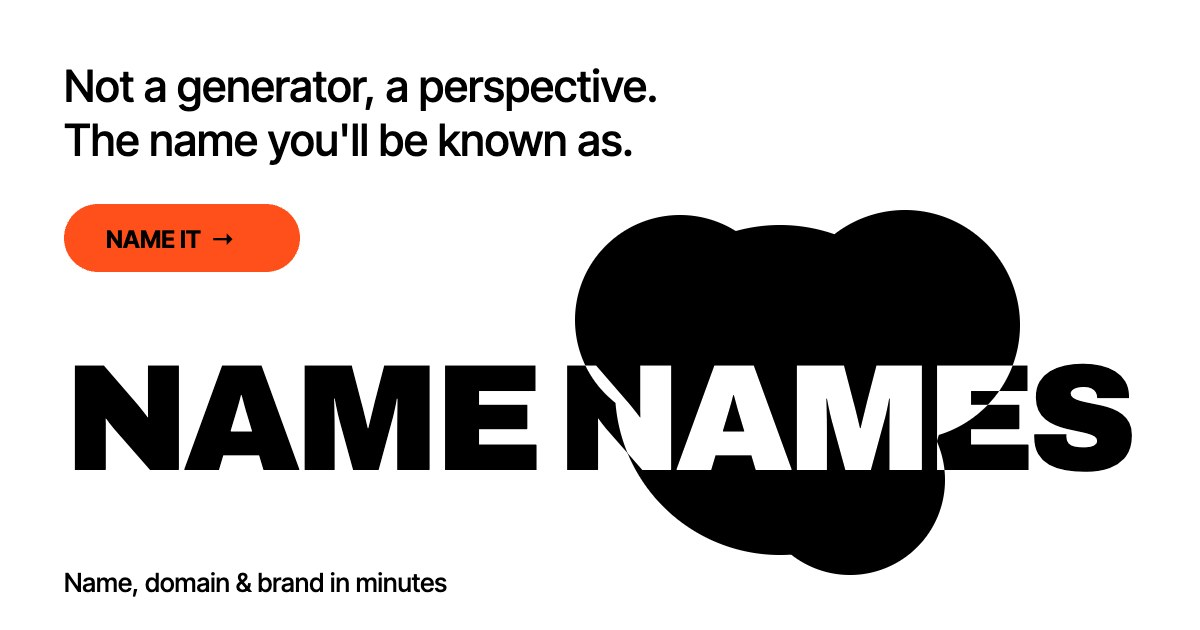
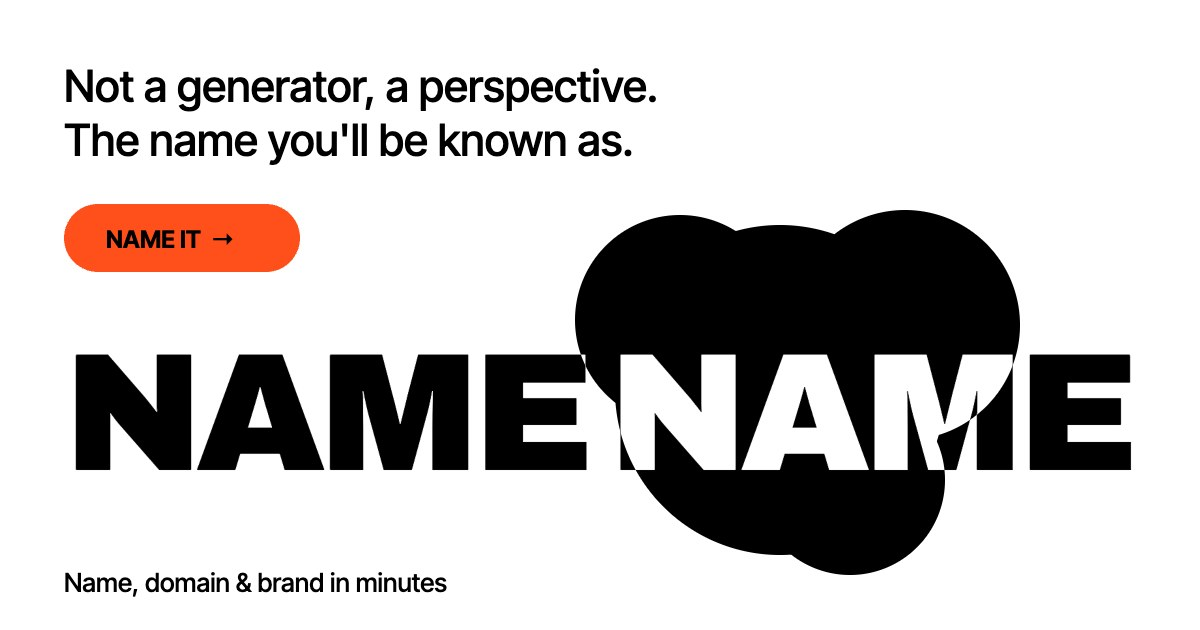
Rebrand: Name Name (namename.ai is ours)
Wordmark, titles, OG card and tags, book credit and share copy all read Name
Name; phones size the two-line mark to NAME.

Changed region(s): [[0.0617, 0.5429, 0.9558, 0.754]]

diff --git a/src/wrapped/WrappedApp.tsx b/src/wrapped/WrappedApp.tsx
@@ -1,4 +1,4 @@
-// Name Names — the "Wrapped" flow. One black stage:
+// Name Name — the "Wrapped" flow. One black stage:
 // 00 landing → 01 the ask → 02 brief wrapped → 03 the words → 04 the names
 // (gated when signed out) → 05 the reveal → then the own-it hub:
 // 06 domain → 06b/c logo → 07 brand book → 08 socials → 09 all set.
@@ -546,7 +546,7 @@ export function WrappedApp({ test, resume, go }: { test: boolean; resume?: strin
     pushUrl("ask");
   }
 
-  // The Name Names landing submits the brief into the flow (02) — after the
+  // The Name Name landing submits the brief into the flow (02) — after the
   // one-tap sign-up (00·s) that keeps the brief, when signed out.
   function startFromLanding() {
     if (!user && !test) { setBriefGate(true); return; }
@@ -736,7 +736,7 @@ export function WrappedApp({ test, resume, go }: { test: boolean; resume?: strin
   function share() {
     const nm = picked?.name || "My new name";
     const base = "https://dimitri-frb.github.io/thenamingstudio/";
-    const text = `${nm}, found with Name Names`;
+    const text = `${nm}, found with Name Name`;
     let url = base;
     if (picked && !test) {
       // A public page for invitees: /s/<id> (best effort; falls back to the site).
@@ -846,7 +846,7 @@ export function WrappedApp({ test, resume, go }: { test: boolean; resume?: strin
       {/* shared header: logo left, chapter label centred, round ‹ › right */}
       {step !== "land" && <div className="wr-top">
         <button className="wr-brand" onClick={() => restart()}>
-          <span className="bt">NAME NAMES</span>
+          <span className="bt">NAME NAME</span>
         </button>
         {chapter && <span className="wr-chapter">{chapter.label}</span>}
         <span style={{ display: "inline-flex", alignItems: "center", gap: 8 }}>
@@ -1796,7 +1796,7 @@ function BriefGateModal({ brief, onClose, onUser }: { brief: string; onClose: ()
   return (
     <div className="wr-sumodal gate" onClick={onClose}>
       <div className="panel" onClick={(e) => e.stopPropagation()}>
-        <span className="bt" style={{ fontFamily: "'Archivo', var(--sans)", fontWeight: 900, letterSpacing: "-0.045em", fontSize: 16, display: "block", marginBottom: 16 }}>NAME NAMES</span>
+        <span className="bt" style={{ fontFamily: "'Archivo', var(--sans)", fontWeight: 900, letterSpacing: "-0.045em", fontSize: 16, display: "block", marginBottom: 16 }}>NAME NAME</span>
         <h3>Save your brief.<br />Then we name it.</h3>
         {brief && (
           <p className="briefrow"><em>Brief</em><span>{brief}</span></p>
@@ -1963,7 +1963,7 @@ function WordsLoader({ concept }: { concept: string }) {
   );
 }
 
-/* ── The Name Names landing (handoff 4b "The Wordmark"): white page, giant
+/* ── The Name Name landing (handoff 4b "The Wordmark"): white page, giant
    edge-to-edge wordmark, ink blobs in difference blend, brief input up top ── */
 function LandingKA({ sentence, setSentence, onSubmit, onHow, onLogin, loggedIn }: {
   sentence: string; setSentence: (s: string) => void;
@@ -1979,12 +1979,12 @@ function LandingKA({ sentence, setSentence, onSubmit, onHow, onLogin, loggedIn }
       const wm = wmRef.current, f = frameRef.current;
       if (!wm || !f) return;
       const mobile = f.clientWidth <= 760;
-      // Phones break the wordmark onto two lines and size it to "NAMES".
+      // Phones break the wordmark onto two lines and size it to "NAME".
       wm.style.whiteSpace = "nowrap";
       wm.style.fontSize = "200px";
-      if (mobile) wm.textContent = "NAMES";
+      if (mobile) wm.textContent = "NAME";
       const w = wm.offsetWidth;
-      if (mobile) wm.textContent = "NAME NAMES";
+      if (mobile) wm.textContent = "NAME NAME";
       wm.style.whiteSpace = mobile ? "normal" : "nowrap";
       const gut = mobile ? 40 : 64;
       if (w) wm.style.fontSize = ((200 * (f.clientWidth - gut)) / w).toFixed(2) + "px";
@@ -2032,7 +2032,7 @@ function LandingKA({ sentence, setSentence, onSubmit, onHow, onLogin, loggedIn }
       <div className="hero">
         <p className="tag">Not a generator, a perspective.<br />The name you'll be known as.</p>
       </div>
-      <div className="wmrow"><span className="wm" ref={wmRef}>NAME NAMES</span></div>
+      <div className="wmrow"><span className="wm" ref={wmRef}>NAME NAME</span></div>
       <form className="brief" onSubmit={submit}>
         <input ref={inputRef} type="text" placeholder="Describe what you're building…"
           value={sentence} onChange={(e) => setSentence(e.target.value)} />

diff --git a/index.html b/index.html
@@ -4,7 +4,7 @@
     <meta charset="UTF-8" />
     <link rel="icon" type="image/svg+xml" href="/favicon.svg?v=3" />
     <meta name="viewport" content="width=device-width, initial-scale=1.0" />
-    <title>Name Names - Your name, domain &amp; brand in minutes</title>
+    <title>Name Name - Your name, domain &amp; brand in minutes</title>
     <meta
       name="description"
       content="Describe what you're building. Walk out with a name you love and the domain to match."
@@ -12,17 +12,17 @@
 
     <!-- Social share / link unfurl -->
     <meta property="og:type" content="website" />
-    <meta property="og:site_name" content="Name Names" />
-    <meta property="og:title" content="Name Names - Your name, domain &amp; brand in minutes" />
+    <meta property="og:site_name" content="Name Name" />
+    <meta property="og:title" content="Name Name - Your name, domain &amp; brand in minutes" />
     <meta property="og:description" content="Describe what you're building. Walk out with a name you love and the domain to match." />
     <meta property="og:url" content="https://dimitri-frb.github.io/thenamingstudio/" />
-    <meta property="og:image" content="https://dimitri-frb.github.io/thenamingstudio/og.jpg?v=2" />
+    <meta property="og:image" content="https://dimitri-frb.github.io/thenamingstudio/og.jpg?v=3" />
     <meta property="og:image:width" content="1200" />
     <meta property="og:image:height" content="630" />
     <meta name="twitter:card" content="summary_large_image" />
-    <meta name="twitter:title" content="Name Names - Your name, domain &amp; brand in minutes" />
+    <meta name="twitter:title" content="Name Name - Your name, domain &amp; brand in minutes" />
     <meta name="twitter:description" content="Describe what you're building. Walk out with a name you love and the domain to match." />
-    <meta name="twitter:image" content="https://dimitri-frb.github.io/thenamingstudio/og.jpg?v=2" />
+    <meta name="twitter:image" content="https://dimitri-frb.github.io/thenamingstudio/og.jpg?v=3" />
     <link rel="preconnect" href="https://fonts.googleapis.com" />
     <link rel="preconnect" href="https://fonts.gstatic.com" crossorigin />
     <link

diff --git a/src/wrapped/AccountPage.tsx b/src/wrapped/AccountPage.tsx
@@ -67,7 +67,7 @@ export function AccountPage({ initialTab }: { initialTab?: "all" } = {}) {
       {/* sidebar (desktop) */}
       <aside className="side wr-hidemob">
         <a className="wr-brand" href={BASE()} style={{ textDecoration: "none" }}>
-          <span className="bt">NAME NAMES</span>
+          <span className="bt">NAME NAME</span>
         </a>
         <nav>
           {NAV.map((n) => (
@@ -86,7 +86,7 @@ export function AccountPage({ initialTab }: { initialTab?: "all" } = {}) {
         {/* mobile brand row */}
         <div className="wr-hidedesk" style={{ padding: "18px 0 0" }}>
           <a className="wr-brand" href={BASE()} style={{ textDecoration: "none" }}>
-            <span className="bt">NAME NAMES</span>
+            <span className="bt">NAME NAME</span>
           </a>
         </div>
 
@@ -315,7 +315,7 @@ function SignIn({ ready, onUser }: { ready: boolean; onUser: (u: WUser, s: Saved
       <div className="wr-glow" />
       <div className="wr-top">
         <a className="wr-brand" href={BASE()} style={{ textDecoration: "none" }}>
-          <span className="bt">NAME NAMES</span>
+          <span className="bt">NAME NAME</span>
         </a>
       </div>
       <div className="wr-stage center" style={{ textAlign: "center", alignItems: "center" }}>

diff --git a/src/wrapped/wrapped.css b/src/wrapped/wrapped.css
@@ -42,7 +42,7 @@
 .wr *, .wr *::before, .wr *::after { box-sizing: border-box; }
 .wr button { font-family: inherit; }
 
-/* ═════════ the Name Names landing (handoff 4b "The Wordmark") ═════════ */
+/* ═════════ the Name Name landing (handoff 4b "The Wordmark") ═════════ */
 .ka-land {
   position: absolute; inset: 0; z-index: 7;
   background: #fff; color: #000;
@@ -246,7 +246,7 @@
   margin: 0;
 }
 .wr-lead { font-size: 15.5px; line-height: 1.55; color: var(--text2); margin: 0; }
-/* Name Names type pass: large display text is Inter Tight 600, tighter */
+/* Name Name type pass: large display text is Inter Tight 600, tighter */
 .wr-h, .wr-bigname, .wr-wait .story h2, .wr-swipe .bn, .wr-ncard .nm,
 .wr-gate h3, .wr-sumodal h3, .wr-nmodal h3, .wr-scard .nm { font-weight: 600; letter-spacing: -0.035em; }
 .wr-scard .wr-chaps { display: flex; gap: 7px; margin: 10px 0 2px; }

diff --git a/src/wrapped/Book.tsx b/src/wrapped/Book.tsx
@@ -36,7 +36,7 @@ export function BookPage({ i, ctx }: { i: number; ctx: BookCtx }) {
   const foot = i > 0 ? (
     <div className="bk-foot">
       <span>{name} · Brand book</span>
-      <span>Built by Name Names · {i + 1}</span>
+      <span>Built by Name Name · {i + 1}</span>
     </div>
   ) : null;
 
@@ -61,7 +61,7 @@ export function BookPage({ i, ctx }: { i: number; ctx: BookCtx }) {
           {PAGE_TITLES.slice(1).map((t) => <span key={t}>{t}</span>)}
         </div>
         <div style={{ display: "flex", justifyContent: "space-between", fontSize: "8pt", opacity: 0.55 }}>
-          <span>{ctx.domain}</span><span>Built by Name Names</span>
+          <span>{ctx.domain}</span><span>Built by Name Name</span>
         </div>
       </div>
     );

diff --git a/src/wrapped/SharePage.tsx b/src/wrapped/SharePage.tsx
@@ -31,7 +31,7 @@ export function SharePage({ id }: { id: string }) {
   return (
     <div className="wr wr-share">
       <div className="wr-top">
-        <span className="wr-brand"><span className="bt">NAME NAMES</span></span>
+        <span className="wr-brand"><span className="bt">NAME NAME</span></span>
         <span className="lockurl">🔒 {window.location.host}{window.location.pathname}</span>
         <span />
       </div>
